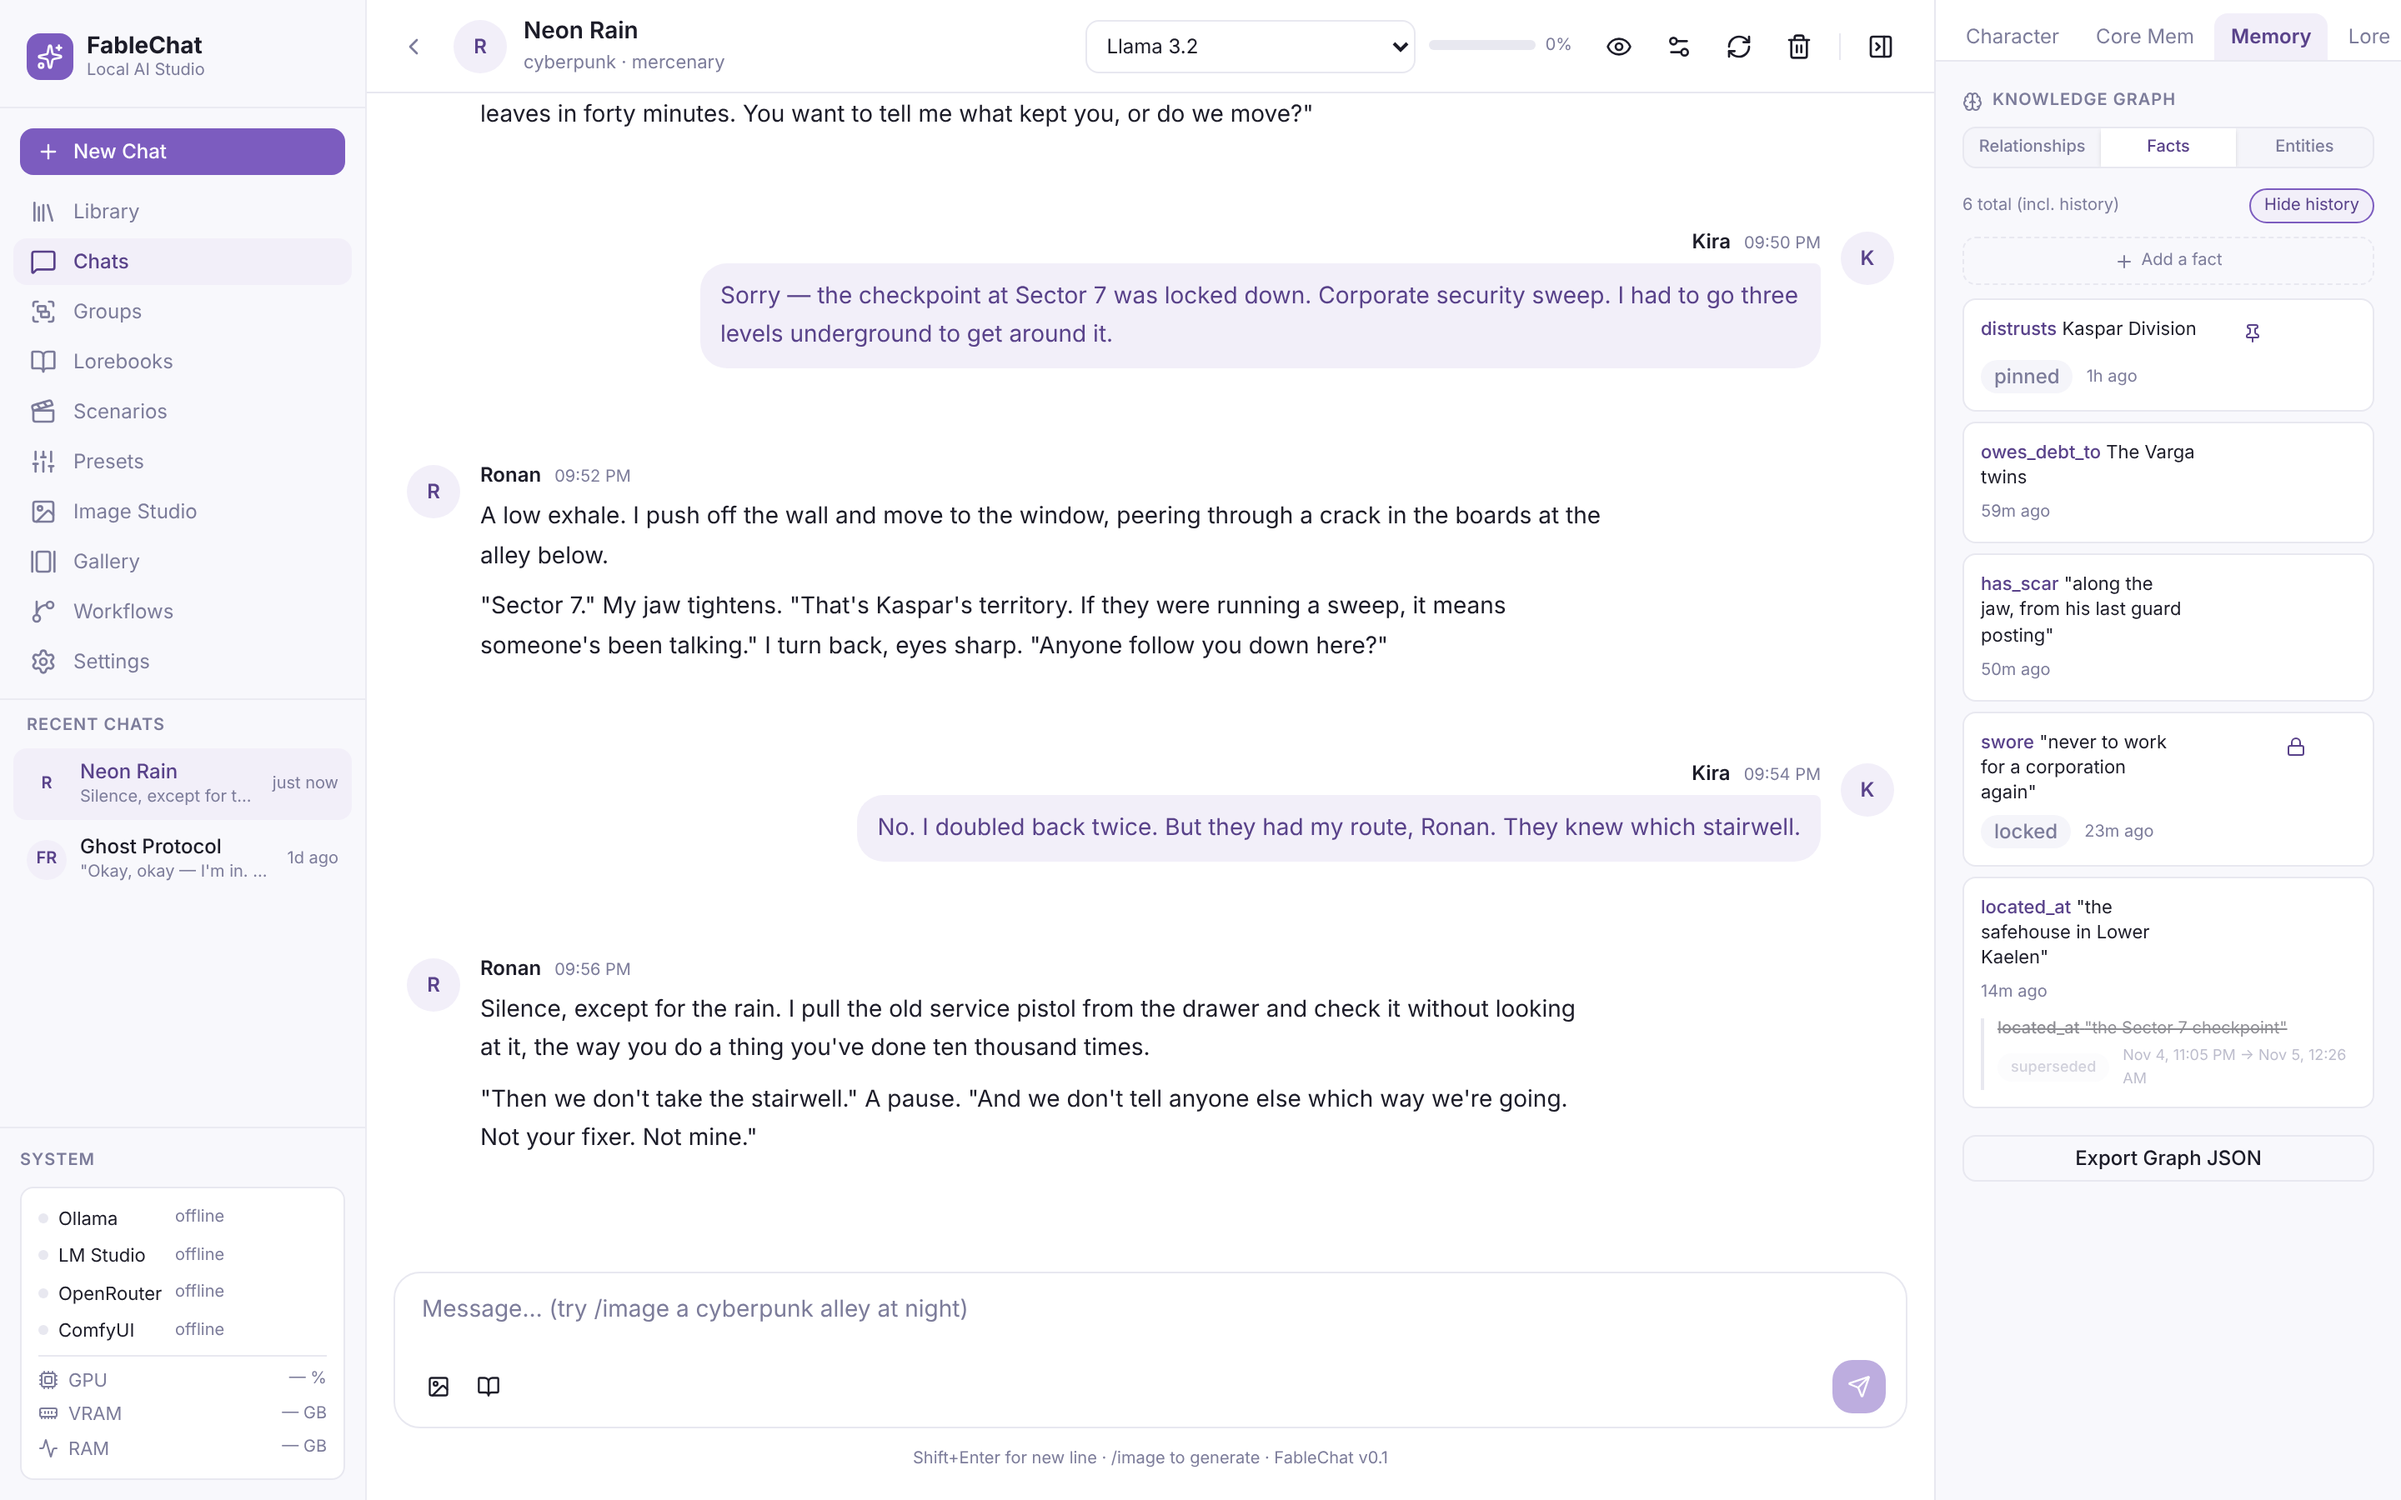
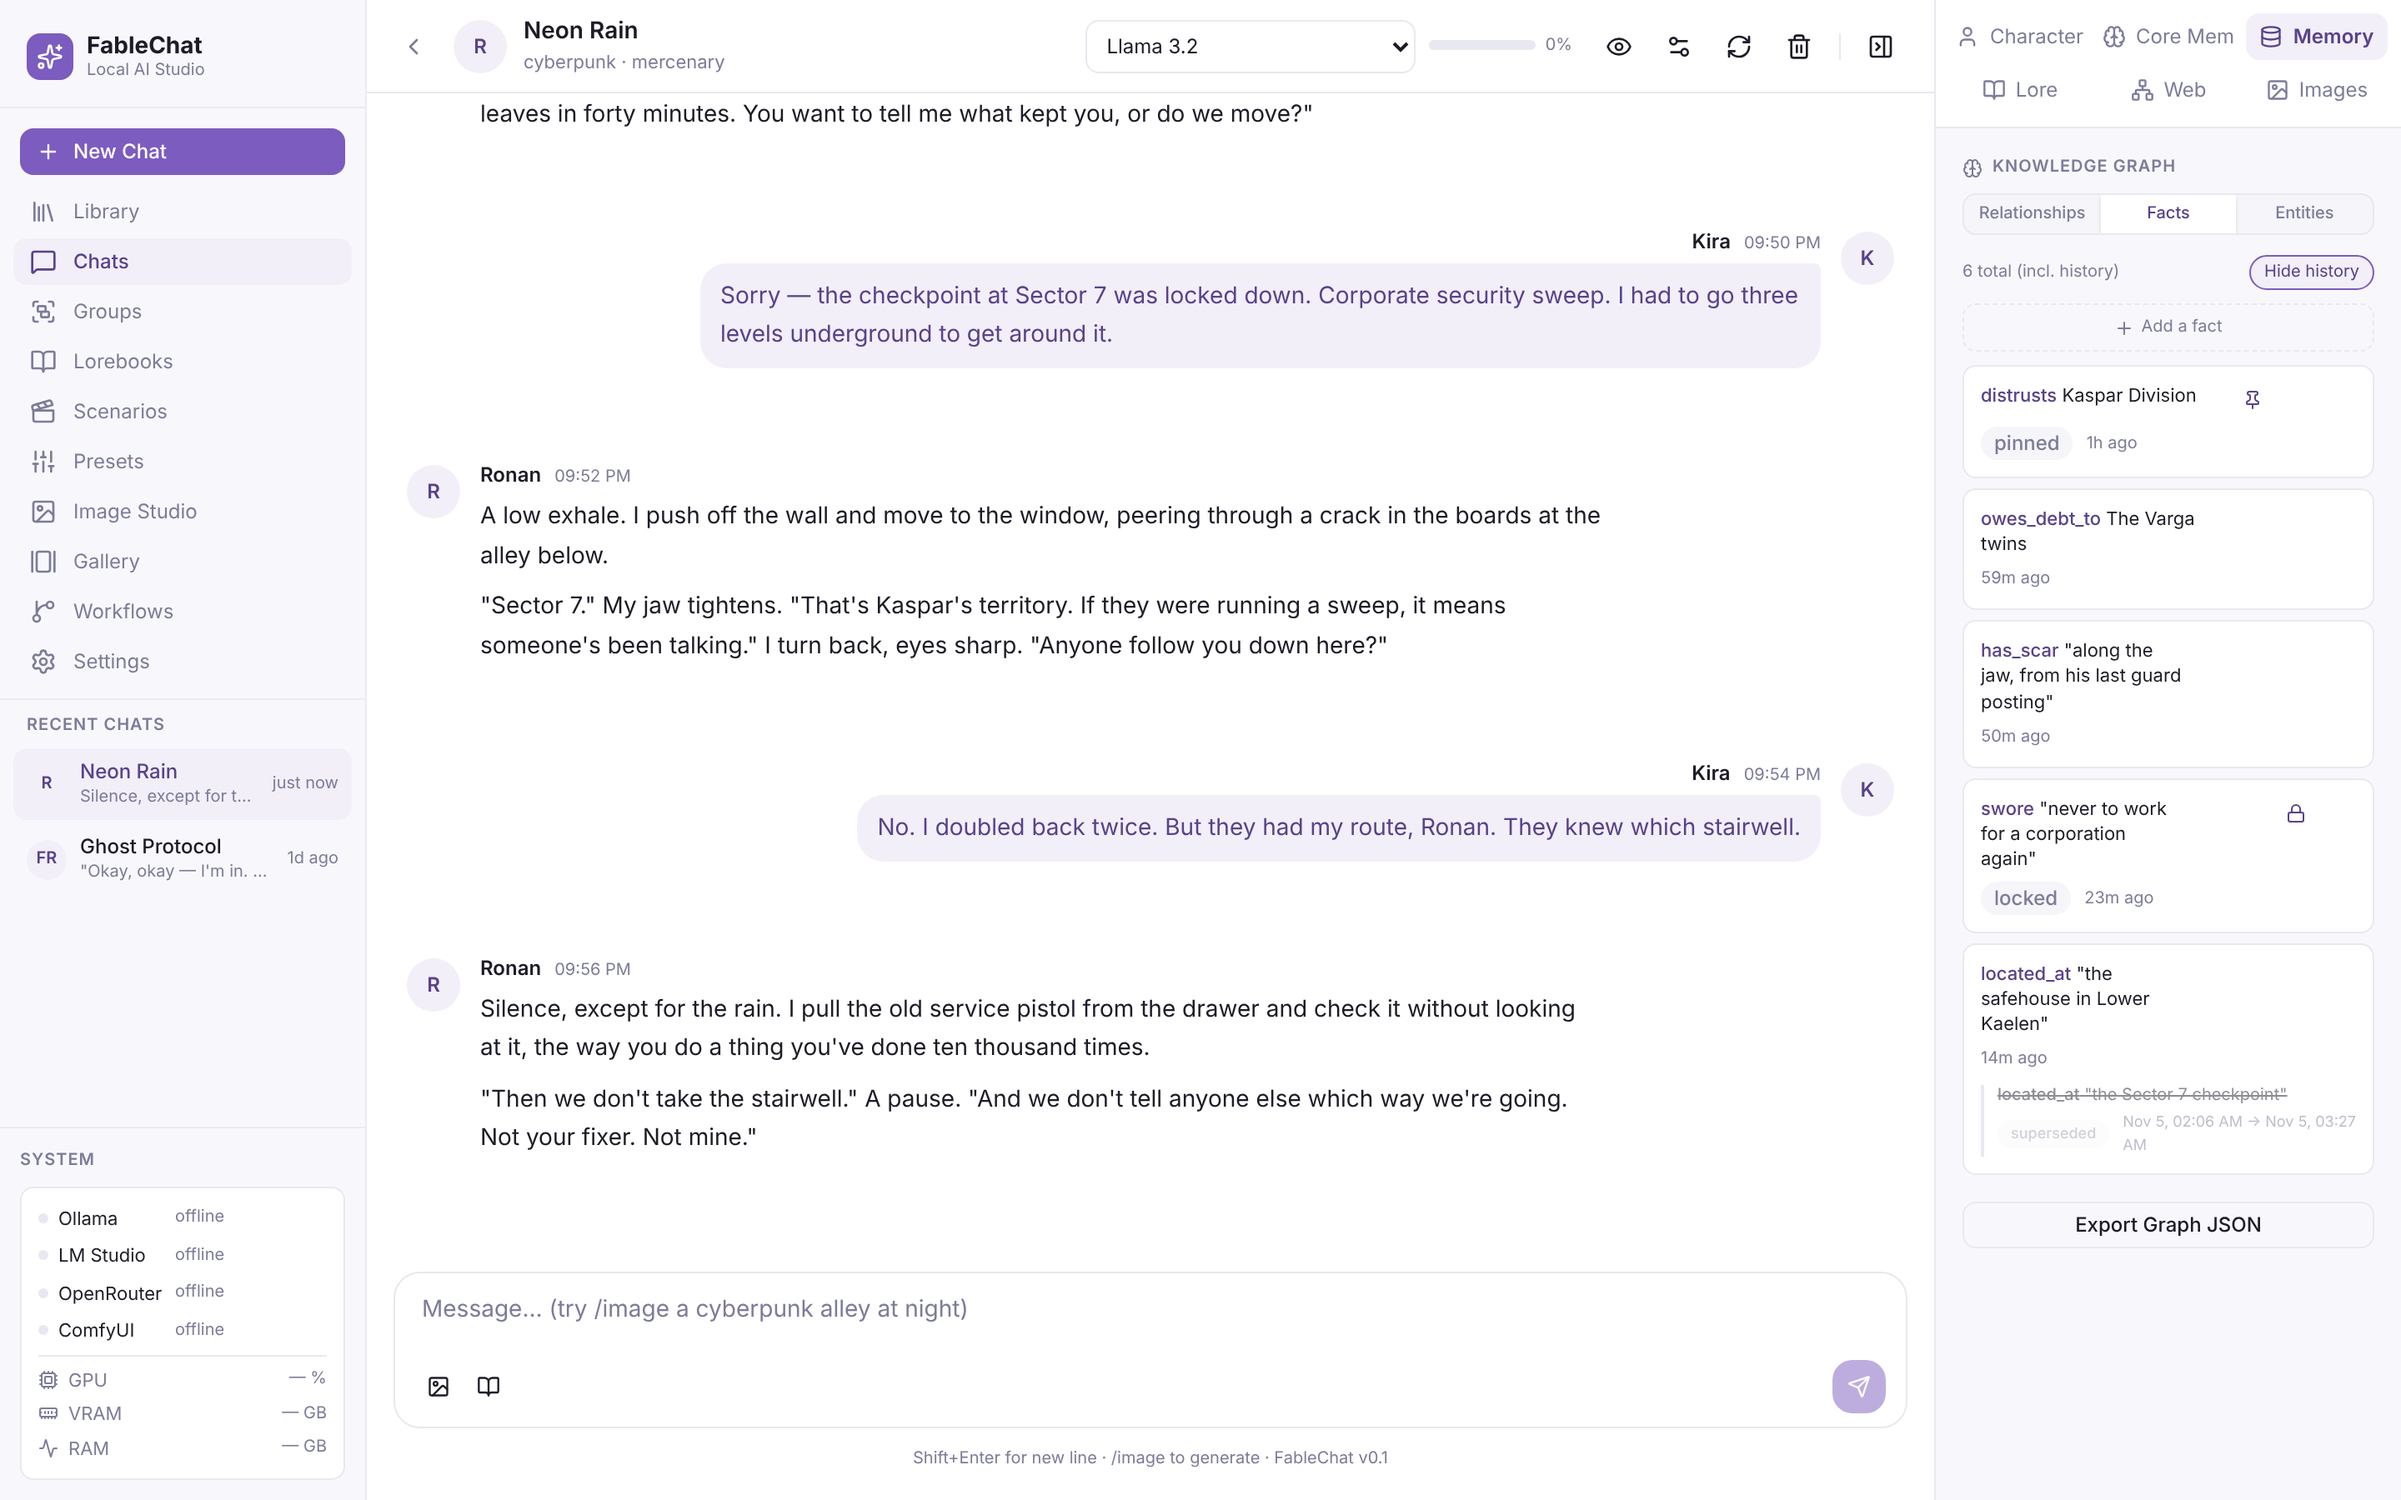
Show every inspector tab at once and make scrollbars visible
The inspector's tab strip was wider than its 280 px panel, so Memory,
Lore, Web and Image Studio sat off to the right behind a horizontal
scrollbar that, at 5 px in a colour one step off the background, most
people never saw. That hid fact pinning, locking, editing and history and
the story web. The tabs are now a 3x2 grid with icons and a tooltip each,
so nothing scrolls.

Scrollbars everywhere are thin but visible in both themes (standard
scrollbar-width/scrollbar-color for Chrome, Edge and Firefox, plus wider,
darker -webkit thumbs for Safari).

Core Memory at its untouched defaults now says that it fills in after the
first reply, instead of looking like a broken panel. README screenshots
retaken with the new tab grid.

Claude-Session: https://claude.ai/code/session_01JpZtAJuVJMeDMBUw2qWeHi

diff --git a/components/inspector/InspectorPanel.tsx b/components/inspector/InspectorPanel.tsx
@@ -11,15 +11,18 @@ import { CoreMemoryTab } from "./CoreMemoryTab";
 import { cn } from "@/lib/utils";
 import { useUiStore } from "@/lib/store/ui";
 import { useNarrow } from "@/lib/hooks/useNarrow";
-import { X } from "lucide-react";
+import { X, User, Brain, Database, BookOpen, Network, Image as ImageIcon, type LucideIcon } from "lucide-react";
 
-const TABS: { id: InspectorTab; label: string }[] = [
-  { id: "character",    label: "Character" },
-  { id: "core-memory",  label: "Core Mem" },
-  { id: "memory",       label: "Memory" },
-  { id: "lore",         label: "Lore" },
-  { id: "graph",        label: "Web" },
-  { id: "image-studio", label: "Image Studio" },
+// Every tab visible at once: a 3×2 grid instead of a strip that scrolled
+// sideways, which hid Memory, Lore, Web and Image Studio behind a scrollbar
+// most people never noticed.
+const TABS: { id: InspectorTab; label: string; icon: LucideIcon; hint: string }[] = [
+  { id: "character",    label: "Character",   icon: User,      hint: "Who they are, how they feel about you" },
+  { id: "core-memory",  label: "Core Mem",    icon: Brain,     hint: "Mood, relationship, thoughts and summary: always in the prompt" },
+  { id: "memory",       label: "Memory",      icon: Database,  hint: "Facts (pin, lock, edit, history), relationships and entities" },
+  { id: "lore",         label: "Lore",        icon: BookOpen,  hint: "Lorebooks active in this chat" },
+  { id: "graph",        label: "Web",         icon: Network,   hint: "The story as a mind map" },
+  { id: "image-studio", label: "Images",      icon: ImageIcon, hint: "Generate an image of this scene" },
 ];
 
 export function InspectorPanel() {
@@ -75,19 +78,23 @@ export function InspectorPanel() {
       )}
 
       {/* Tab bar */}
-      <div className="flex border-b border-[var(--border)] bg-[var(--card)] px-2 pt-2 gap-0.5 flex-shrink-0 overflow-x-auto">
-        {TABS.map((tab) => (
+      <div role="tablist" aria-label="Inspector sections" className="grid grid-cols-3 gap-1 border-b border-[var(--border)] bg-[var(--card)] p-2 flex-shrink-0">
+        {TABS.map(({ id, label, icon: Icon, hint }) => (
           <button
-            key={tab.id}
-            onClick={() => setInspectorTab(tab.id)}
+            key={id}
+            role="tab"
+            aria-selected={inspectorTab === id}
+            title={hint}
+            onClick={() => setInspectorTab(id)}
             className={cn(
-              "px-2.5 py-1.5 text-xs rounded-t-lg transition-colors cursor-pointer whitespace-nowrap",
-              inspectorTab === tab.id
+              "flex items-center justify-center gap-1.5 rounded-lg px-1.5 py-1.5 text-xs transition-colors cursor-pointer whitespace-nowrap",
+              inspectorTab === id
                 ? "bg-[var(--purple-light)] text-[var(--purple-fg)] font-semibold"
                 : "text-[var(--muted-fg)] hover:text-[var(--foreground)] hover:bg-[var(--muted)]"
             )}
           >
-            {tab.label}
+            <Icon className="h-3.5 w-3.5 flex-shrink-0" />
+            {label}
           </button>
         ))}
       </div>

diff --git a/app/globals.css b/app/globals.css
@@ -13,8 +13,8 @@
   --sidebar-bg: #f8f8fc;
   --sidebar-border: #ebebf2;
   --radius: 8px;
-  --scrollbar: #d8d8e8;
-  --scrollbar-hover: #c0c0d8;
+  --scrollbar: #b4b4ca;
+  --scrollbar-hover: #8e8eaa;
   --prose-em: #5a5a7a;
   color-scheme: light;
 }
@@ -29,8 +29,8 @@
   --muted-fg: #9a9ab5;
   --sidebar-bg: #101018;
   --sidebar-border: #262634;
-  --scrollbar: #3a3a4e;
-  --scrollbar-hover: #4c4c64;
+  --scrollbar: #555570;
+  --scrollbar-hover: #72728f;
   --prose-em: #b4b4d0;
   color-scheme: dark;
 }
@@ -76,11 +76,14 @@ body {
   overflow: hidden;
 }
 
-/* Scrollbar styling */
-::-webkit-scrollbar { width: 5px; height: 5px; }
+/* Scrollbars: thin but visible, in both themes. The standard properties win in
+   current Chrome, Edge and Firefox; the -webkit rules cover Safari. A 5 px bar
+   in a colour one step off the background was close to invisible. */
+* { scrollbar-width: thin; scrollbar-color: var(--scrollbar) transparent; }
+::-webkit-scrollbar { width: 10px; height: 10px; }
 ::-webkit-scrollbar-track { background: transparent; }
-::-webkit-scrollbar-thumb { background: var(--scrollbar); border-radius: 3px; }
-::-webkit-scrollbar-thumb:hover { background: var(--scrollbar-hover); }
+::-webkit-scrollbar-thumb { background: var(--scrollbar); border-radius: 6px; border: 2px solid transparent; background-clip: content-box; }
+::-webkit-scrollbar-thumb:hover { background: var(--scrollbar-hover); background-clip: content-box; }
 
 /* Chat message prose */
 .prose-chat { line-height: 1.7; }

diff --git a/components/inspector/CoreMemoryTab.tsx b/components/inspector/CoreMemoryTab.tsx
@@ -145,6 +145,13 @@ export function CoreMemoryTab() {
         </div>
       </div>
 
+      {/* Untouched defaults look like a broken panel; say what fills them */}
+      {version === 1 && (
+        <div className="rounded-lg border border-dashed border-[var(--border)] px-2.5 py-2 text-[11px] text-[var(--muted-fg)]">
+          Nothing remembered yet. Send a message: after each reply the character&apos;s mood, feelings about you and the story so far are rewritten here.
+        </div>
+      )}
+
       {error && (
         <div className="text-[10px] text-red-500 bg-red-50 rounded px-2 py-1">{error}</div>
       )}

diff --git a/README.md b/README.md
@@ -76,7 +76,7 @@ npm run dev
 | **Knowledge graph** | Entities, facts with supersession and semantic de-duplication, relationship stats (affection / trust / desire / connection), commitments, episodic scene cards, reflections, running jokes and nicknames, and a story clock. Retrieval uses local Ollama embeddings when available and falls back to lexical ranking. |
 | **Emotional dynamics** | Stats move non-linearly: headroom near the extremes, loss aversion on drops in trust and affection, blended mood, and post-rupture inertia, so a betrayal heals slowly and stays in the prompt. |
 | **Lorebooks & scenarios** | Keyword-triggered world lore with priorities, always-on entries and a token budget. Scenarios are reusable scene setups with their own opening message. |
-| **Inspector** | A side panel with Character · Core Mem · Memory (Relationships, Facts with history, Entities with duplicate merge) · Lore · Web (the story as a mind map) · Image Studio. Every reply has a 🧠 view of the memory that shaped it. |
+| **Inspector** | A side panel with Character · Core Mem · Memory (Relationships, Facts with history, Entities with duplicate merge) · Lore · Web (the story as a mind map) · Images. All six tabs are visible at once. Every reply has a 🧠 view of the memory that shaped it. |
 | **Memory curation** | Edit a fact, **pin** it (always in the prompt) or **lock** it (extraction can't replace it). Editing locks automatically. |
 | **Peek Prompt** | The eye icon shows exactly what the model receives: the last prompt sent, or a live preview built by the same code. |
 | **Branching** | "Branch from here" on any message copies the chat up to that point together with the memory it had *then*. Branches from newer messages are exact; older ones are flagged approximate. |
